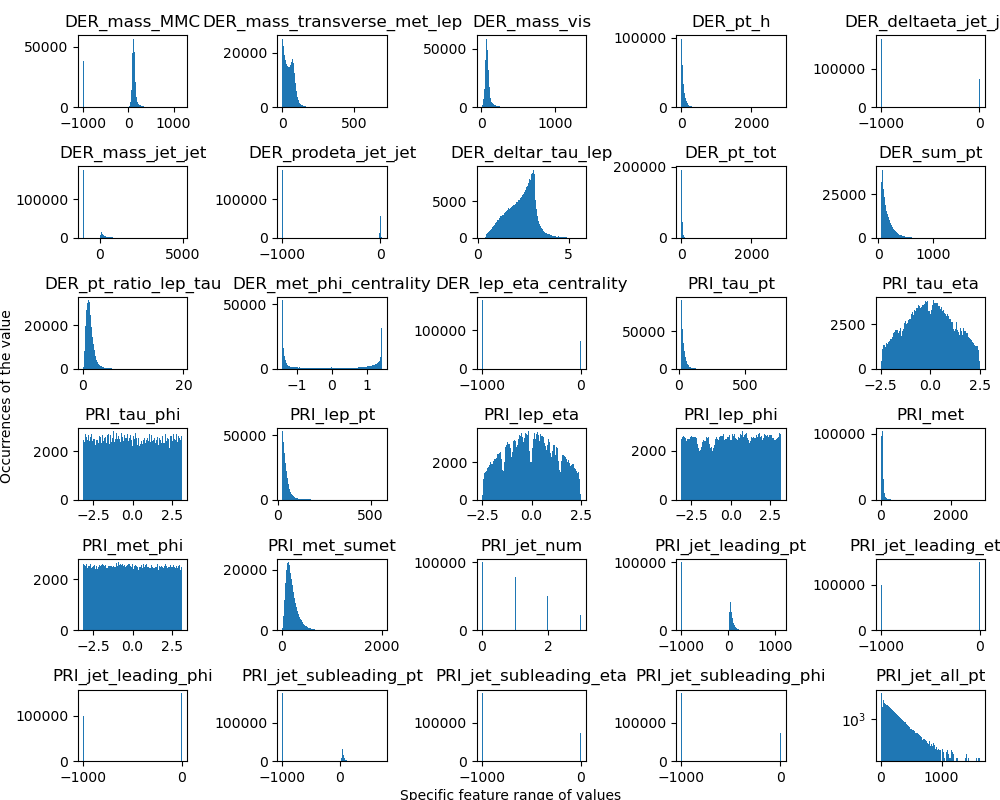
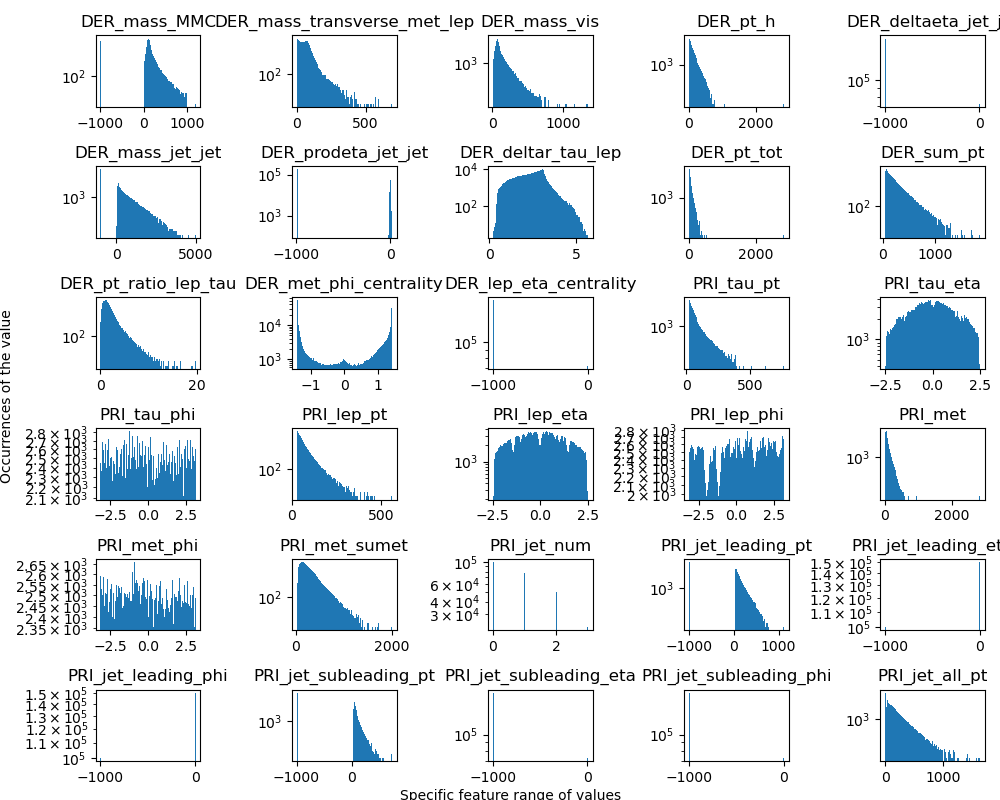
More visualizations and cleanup

diff --git a/src/train_test.py b/src/train_test.py
@@ -1,7 +1,7 @@
 import argparse
 import numpy as np
 from utils.config import read_config
-from utils.data import load_csv_data, create_csv_submission, build_model_data, normalize, build_poly, replace_values
+from utils.data import load_csv_data, create_csv_submission, build_model_data, standardize, build_poly, replace_values
 from utils.algo import do_cross_validation, predict_labels, accuracy
 from utils.implementations import logistic_regression, reg_logistic_regression
 from utils.vizualization import plot_hist_panel
@@ -33,7 +33,6 @@ def train(config, args):
         # These seems like good features to me, but selecting only them does not help apparently
         # feats = feats[:, [0, 1, 2, 3, 7, 8, 9, 10, 11, 13, 14, 15, 16, 17, 18, 19, 20, 21, 22, 23, 26, 29]]
 
-    # TODO: check this website for standardization and poly features build: https://samchaaa.medium.com/preprocessing-why-you-should-generate-polynomial-features-first-before-standardizing-892b4326a91d
     if config["build_poly"]:
         # Build polynomial features
         feats = build_poly(feats, config["degree"])
@@ -42,9 +41,9 @@ def train(config, args):
         feats = build_model_data(feats)
     labels = labels.reshape((labels.shape[0], 1))
 
-    # Feature normalization
-    # TODO: we should not normalize feature 23 because it is categorical
-    feats, tr_mean, tr_std = normalize(feats)
+    # Feature standardization: we should not standardize feature 23 because it is categorical
+    feats, tr_mean, tr_std = standardize(feats, without=[23])
+    # plot_hist_panel(feats[:, 1:], feats_name, config['viz_path'] + 'hist_panel_after_standardization')
 
     if config['cross_val']:
         do_cross_validation(feats, labels, logistic_regression, config)
@@ -76,8 +75,7 @@ def test(config, tr_mean, tr_std, tr_weights, output):
         test_feats = build_model_data(test_feats)
 
     # Normalize features
-    test_feats = test_feats - tr_mean
-    test_feats = test_feats / (tr_std + 0.0000001)
+    test_feats = standardize(test_feats, tr_mean, tr_std, without=[23])
     # Predictions
     test_preds = predict_labels(tr_weights, test_feats)
     # Create submission file

diff --git a/utils/data.py b/utils/data.py
@@ -48,18 +48,31 @@ def create_csv_submission(ids, y_pred, name):
             writer.writerow({'Id': int(r1), 'Prediction': int(r2) if int(r2) == 1 else -1})
 
 
-def normalize(x):
+def standardize(x, tr_mean=None, tr_std=None, without=None):
     """
     Standardize the original data set.
     :param x:
+    :param without:
+    :param tr_mean:
+    :param tr_std:
     :return:
     """
+    # TODO: implement without
     # Transform to zero mean
-    mean_x = np.mean(x, axis=0)
-    x = x - mean_x
+    if tr_mean is None:
+        mean_x = np.mean(x, axis=0)
+        x = x - mean_x
+    else:
+        x = x - tr_mean
+        mean_x = None
     # Transform to unit standard deviation
-    std_x = np.std(x, axis=0)
-    x = x / (std_x + 0.0000001)
+    if tr_std is None:
+        std_x = np.std(x, axis=0)
+        x = x / (std_x + 0.0000001)
+    else:
+        x = x / (tr_std + 0.0000001)
+        std_x = None
+
     return x, mean_x, std_x
 
 

diff --git a/utils/vizualization.py b/utils/vizualization.py
@@ -12,10 +12,10 @@ def plot_hist_panel(feats, feats_name, output_path):
     h = 6
     w = 5
     fig, ax = plt.subplots(h, w, figsize=(10, 8))
-    plt.yscale('log', nonpositive='clip')
     for i in range(h):
         for j in range(w):
             sbplt = ax[i, j]
+            sbplt.set_yscale('log')
             sbplt.hist(feats[:, j + i * w], bins=100)
             sbplt.set_title(feats_name[j + i * w])
 
@@ -27,13 +27,6 @@ def plot_hist_panel(feats, feats_name, output_path):
     fig.savefig(output_path)
 
 
-def check_relevant_samples():
-    # TODO: I do not know what this should do
-    pass
-
-
-def plot_loss_accuracy(losses, accs):
-    fig, ax = plt.subplots(2, 2, figsize=(10, 8))
-
+def plot_loss_accuracy(losses, accuracies):
     # TODO: Implement this and create folder for each experiment
     pass
